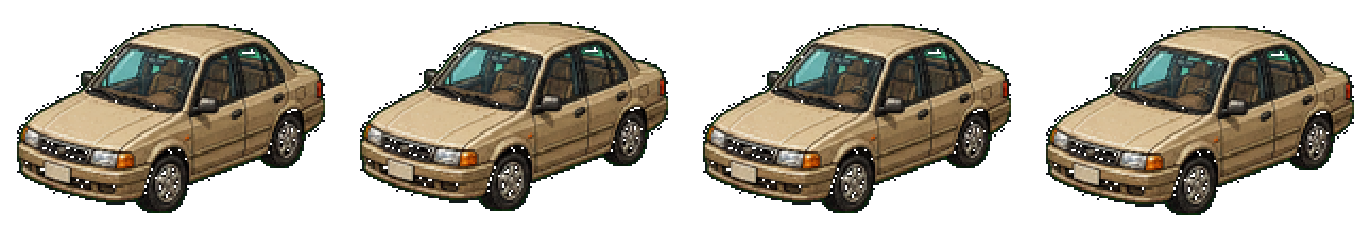
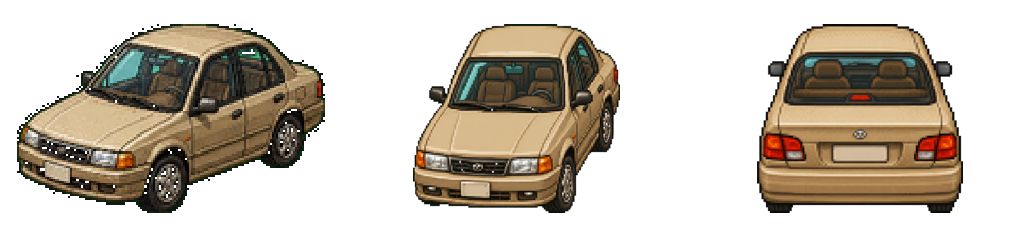
Ch.5 Minimus: directional vehicle fleet, mr_click NPC, full-Gulliver scale, décor + fixes
- mr_click: bespoke 46-frame photographer NPC (drops the curator stand-in), wired + verified
- Vehicles: all 19 road vehicles -> directional [side,front,back] sheets so traffic swaps
  by travel direction instead of rotating the side view (kills the vertical-lane skew);
  new tools compose-vehicle-directional.cjs + split-chroma-2up.cjs; DIRECTIONAL_VEHICLE_KEYS
- dog_sized_berry/bridge_berry -> authored mini_giant_berry_blocker (visuals:audit 93/93)
- Decor props: crown crest + banners (Ducal Crown), teacup + thimble (Minimus Major);
  teacup/thimble keyed transparent (tools/key-tile-bg.cjs) -- crown/banner re-author pending
- Full-Gulliver scale: MINIMUS_NATIVE_SCALE=0.5 on Minimus NPCs + non-facade props (the party
  is never scaled) so the colossi visibly tower over the tabletop duchy
- Pippa: reconciled the tiny-native / full-size-hero scale via the Royal Thimble (join dialogue)
- Housekeeping: removed 4 redundant dungeons/the_hedgerow/*_64.png originals
- All gates green: build, test 1237, enemies:frames 94/94, visuals:audit 93/93

diff --git a/src/scenes/OverworldScene.ts b/src/scenes/OverworldScene.ts
@@ -128,7 +128,7 @@ import { VEHICLE_SPECS } from '../spritegen/vehicles';
 import { makeVitalsBar, type VitalsBar } from '../ui/vitals';
 import { tileIndexByName, PATH_BASE, PATH_VARIANTS, RUG_BASE } from '../spritegen/tiles';
 import { LANDMARK_FACADE_SPRITES } from '../spritegen/buildings';
-import { AUTHORED_VEHICLE_ART_KEYS, AUTHORED_WORLD_PROP_DISPLAY_SIZE, worldSpriteScale } from '../spritegen/authored';
+import { AUTHORED_VEHICLE_ART_KEYS, AUTHORED_WORLD_PROP_DISPLAY_SIZE, DIRECTIONAL_VEHICLE_KEYS, worldSpriteScale } from '../spritegen/authored';
 import { TILE_SOLID, standFrame, facingFromVec, facing8, FACING_VEC, type Facing } from '../spritegen';
 import {
   instantWinGroup,
@@ -265,6 +265,10 @@ const MINIMUS_TILE_SKIN: Readonly<Record<string, string>> = {
   road: 'minimus_cobble', // Minimus Major's streets (`R`) → cobblestone
   road_dash: 'minimus_cobble', // the centreline (`D`) — a duchy ribbon needs no lane dash
 };
+/** §A11 full-Gulliver: the Minimus NATIVES (citizens, props, facades) render at this scale on
+ *  the Ch.5 maps so the colossi party visibly TOWERS over the tabletop duchy — the same idea as
+ *  MINIMUS_TRAFFIC_SCALE for the dainty cars. The PARTY (player + followers) is NEVER scaled. */
+const MINIMUS_NATIVE_SCALE = 0.5;
 /** dog roamers author into a 16² frame (half a human's 24×32); render them a
  *  touch larger so a beagle reads as a real dog beside the cast, not a speck. */
 const DOG_DISPLAY_SCALE = 1.5;
@@ -696,17 +700,31 @@ export class OverworldScene extends Phaser.Scene {
       const img = this.add.image(p.x * TILE_PX, p.y * TILE_PX, sprite).setOrigin(0, 0);
       if (AUTHORED_VEHICLE_PROP_KEYS.has(sprite)) img.setFrame(0);
       const displaySize = AUTHORED_WORLD_PROP_DISPLAY_SIZE[sprite as AuthoredWorldPropKey];
+      // §A11 full-Gulliver: shrink Minimus-NATIVE props so the colossi tower over the duchy's tiny
+      // objects — but NOT facades (their ADR-051 collision/door is texture-coupled) and NOT cars
+      // (already dainty via MINIMUS_TRAFFIC_SCALE).
+      const isFacadeSprite = sprite.startsWith('bldg_') || LANDMARK_FACADE_SPRITES.has(sprite);
+      const nativeProp =
+        MINIMUS_SKIN_MAPS.has(this.mapDef.id) && !isFacadeSprite && !AUTHORED_VEHICLE_PROP_KEYS.has(sprite);
+      const nps = nativeProp ? MINIMUS_NATIVE_SCALE : 1;
       // Sized props carry NATIVE map dims → scale at read. Everything else goes
       // through THE WORLD RESIZE RULE (worldSpriteScale): facades land at their
       // footprint and legacy ×1 art is lifted to runtime res, so homes/props are
       // no longer ~ART_SCALE× too small on the 1600×900 framebuffer.
       if (displaySize) {
-        img.setDisplaySize(s(displaySize.w), s(displaySize.h));
+        img.setDisplaySize(s(displaySize.w) * nps, s(displaySize.h) * nps);
       } else {
-        const sc = worldSpriteScale(sprite, img.width, img.height);
+        let sc = worldSpriteScale(sprite, img.width, img.height);
+        if (nativeProp) sc *= MINIMUS_NATIVE_SCALE;
         if (sc !== 1) img.setScale(sc);
       }
-      img.setDepth(p.y * TILE_PX + img.displayHeight);
+      // origin is top-left, so a shrunk native prop is re-planted by its FOOT + x-centre
+      if (nativeProp) {
+        const sw = img.displayWidth, sh = img.displayHeight;
+        img.x = p.x * TILE_PX + (sw / MINIMUS_NATIVE_SCALE - sw) / 2;
+        img.y = p.y * TILE_PX + (sh / MINIMUS_NATIVE_SCALE - sh);
+      }
+      img.setDepth(img.y + img.displayHeight);
       if (sprite.startsWith('bldg_') || LANDMARK_FACADE_SPRITES.has(sprite)) {
         // ADR-051 — A FACADE COLLIDES AS ITS REAL DRAWN FOOTPRINT. The map data
         // places a facade at a story count `u`; the forge/grown grammar often
@@ -926,6 +944,8 @@ export class OverworldScene extends Phaser.Scene {
       // a beagle reads as a distant speck beside the cast. Lift it so it sits at
       // a believable dog scale next to the kids (origin is feet, so it stays planted).
       if (def.dog) spr.setScale(DOG_DISPLAY_SCALE);
+      // §A11 full-Gulliver — Minimus NATIVES shrink so the colossi party towers (heroes unscaled)
+      else if (MINIMUS_SKIN_MAPS.has(this.mapDef.id)) spr.setScale(MINIMUS_NATIVE_SCALE);
       spr.setDepth(y);
       // ADR-124 — FREE-ROAMING TOWNSFOLK: NPCs wander a small radius by default;
       // only clerks (a `shop`), explicitly pinned NPCs (wander:false / stationary),
@@ -1346,21 +1366,22 @@ export class OverworldScene extends Phaser.Scene {
       // side art by direction: dir 0=E, 1=S, 2=W, 3=N.
       const vertical = v.dir === 1 || v.dir === 3;
       const dim = this.trafficDims.get(v.type) ?? { w: s(32), h: s(18) };
-      const animFrame = Math.floor((this.time.now / 130 + v.id) % 4);
-      // the sheet anim is just a frame swap — the texture KEY never changes
-      // (setFrame skips the per-call texture-manager lookup setTexture does), and
-      // the on-screen size is fixed per vehicle and set once at spawn. Re-setting
-      // the texture + display size for every car every frame was pure waste on
-      // settlement maps (the traffic-heavy "sluggish in town" spots).
-      spr.setFrame(animFrame);
-      // The authored vehicle art faces screen-LEFT (front/headlights on the left, a 3/4
-      // oblique view). Orient FROM that: mirror for East, and rotate the front toward
-      // travel for the vertical lanes. (Previously this assumed right-facing art, so every
-      // car drove BACKWARDS — flip on West + the inverted N/S angles. A dedicated top-down
-      // or 4-way directional vehicle sheet would render the vertical lanes perfectly; this
-      // at least points the car the way it's going with the side art we have.)
-      spr.setAngle(v.dir === 1 ? -90 : v.dir === 3 ? 90 : 0); // S → front down, N → front up
-      spr.setFlipX(v.dir === 0); // E → mirror the left-facing art to face right
+      // setFrame is cheap (the texture KEY never changes, so it skips the per-call
+      // texture-manager lookup setTexture does); the on-screen size is fixed per vehicle
+      // at spawn. ADR-097: a DIRECTIONAL sheet is 3 frames [side, front, back] and traffic
+      // SWAPS the frame by travel direction (no skew). A legacy sheet is 4 motion frames of
+      // the side view, oriented by mirror (East) + rotate (the vertical lanes — which skews
+      // a 3/4 sprite; the directional sheet is the real fix).
+      if (DIRECTIONAL_VEHICLE_KEYS.has(v.type)) {
+        // dir 0=E, 1=S, 2=W, 3=N → side(0) for E/W, front(1) driving down, back(2) driving up
+        spr.setFrame(v.dir === 1 ? 1 : v.dir === 3 ? 2 : 0);
+        spr.setAngle(0);
+        spr.setFlipX(v.dir === 0); // E mirrors the front-left side art to front-right
+      } else {
+        spr.setFrame(Math.floor((this.time.now / 130 + v.id) % 4));
+        spr.setAngle(v.dir === 1 ? -90 : v.dir === 3 ? 90 : 0); // S → front down, N → front up
+        spr.setFlipX(v.dir === 0); // E → mirror the left-facing art to face right
+      }
       // SOLID body rect (px) covering the WHOLE car — ends and sides — sized to
       // the sprite and oriented to travel, inset 4px so brushing past isn't sticky
       // dim is RUNTIME px; dim*S matches the on-screen sprite. The 4px brush-past

diff --git a/src/spritegen/authored.ts b/src/spritegen/authored.ts
@@ -298,6 +298,7 @@ export const NPC_CHARACTER_ART = [
   { id: 'teacup_innkeeper', key: 'authored_teacup_innkeeper_8dir', url: new URL('../../assets/art/characters/teacup_innkeeper_anim_46_4x.png', import.meta.url).href },
   { id: 'tiny_postmaster', key: 'authored_tiny_postmaster_8dir', url: new URL('../../assets/art/characters/tiny_postmaster_anim_46_4x.png', import.meta.url).href },
   { id: 'matchbox_herald', key: 'authored_matchbox_herald_8dir', url: new URL('../../assets/art/characters/matchbox_herald_anim_46_4x.png', import.meta.url).href },
+  { id: 'mr_click', key: 'authored_mr_click_8dir', url: new URL('../../assets/art/characters/mr_click_anim_46_4x.png', import.meta.url).href },
 ] as const;
 
 export const AUTHORED_NPC_CHARACTER_IDS = NPC_CHARACTER_ART.map((art) => art.id);
@@ -388,6 +389,8 @@ const WORLD_PROP_KEYS = [
   'prop_giant_hair', 'prop_amber_wax', 'prop_resonance_stones',
   // Ch.5 Minimus — the Hedgerow maze + the Ducal Crown dressing (PKG-12 §2)
   'hedgerow_leaf_wall', 'hedgerow_thorn_arch', 'ducal_crown_gate', 'matchbox_podium',
+  // Ch.5 Minimus — decorative Grand-Duchy feature props (sliced from Minimus_tiles_16.png cells)
+  'minimus_crown', 'minimus_banner', 'minimus_teacup', 'minimus_thimble',
 ] as const;
 
 const BASE_FACADE_KEYS = [
@@ -471,6 +474,19 @@ export const AUTHORED_VEHICLE_ART = [
 ] as const;
 
 export const AUTHORED_VEHICLE_ART_KEYS = AUTHORED_VEHICLE_ART;
+
+/** ADR-097 DIRECTIONAL vehicles: their authored sheet is 3 frames [side, front, back]
+ *  (NOT the legacy 4 motion frames of the side view). Traffic SWAPS the frame by travel
+ *  direction instead of rotating the 3/4 side art, so vertical lanes read correctly (no
+ *  skew). Add a key here once its front+back views are authored + composed
+ *  (tools/compose-vehicle-directional.cjs). */
+export const DIRECTIONAL_VEHICLE_KEYS = new Set<string>([
+  // the road-traffic four-wheelers, each authored with front + back oblique views
+  'commuter', 'work_van', 'city_ev', 'trail_boss', 'big_block', 'the_nikolai', 'drop_top',
+  'grand_tourer', 'the_stretch', 'comet_gt', 'school_bus', 'bus', 'vehicle_clunker', 'savanna_caravan_truck',
+  // the two-wheelers — head-on front + rear views
+  'kids_bmx', 'ten_speed', 'old_reliable', 'chrome_hog', 'the_quick_one',
+]);
 
 const AUTHORED_VEHICLE_SOURCES = AUTHORED_VEHICLE_ART.map((key) => ({
   key,
@@ -605,6 +621,11 @@ export const AUTHORED_WORLD_PROP_DISPLAY_SIZE = {
   hedgerow_thorn_arch: { w: 30, h: 30 },
   ducal_crown_gate: { w: 32, h: 32 },
   matchbox_podium: { w: 16, h: 16 },
+  // Ch.5 Minimus decorative feature props (64px square cells — kept SQUARE so setDisplaySize never distorts)
+  minimus_crown: { w: 32, h: 32 },
+  minimus_banner: { w: 22, h: 22 },
+  minimus_teacup: { w: 18, h: 18 },
+  minimus_thimble: { w: 16, h: 16 },
 } as const satisfies Record<string, { w: number; h: number }>;
 
 /** Footprint width in TILES for the generated catalog + colossi, mirrored from
@@ -1040,8 +1061,10 @@ const ENEMY_MINI_ART = [
   { key: 'mini_halberd_column', url: new URL('../../assets/art/enemies/mini_halberd_column.png', import.meta.url).href },
   { key: 'mini_bell_ringer_acolyte', url: new URL('../../assets/art/enemies/mini_bell_ringer_acolyte.png', import.meta.url).href },
   { key: 'mini_grand_parade', url: new URL('../../assets/art/enemies/mini_grand_parade.png', import.meta.url).href },
-  // Ch.4 straggler — the last actually-roaming enemy on a procedural mini (derived from its battler)
+  // Ch.4 straggler — a roaming enemy lifted off its procedural mini (derived from its battler)
   { key: 'mini_thunder_snail', url: new URL('../../assets/art/enemies/mini_thunder_snail.png', import.meta.url).href },
+  // Ch.1 stragglers — dog_sized_berry + bridge_berry borrow battle_giant_berry_blocker; one shared derived mini
+  { key: 'mini_giant_berry_blocker', url: new URL('../../assets/art/enemies/mini_giant_berry_blocker.png', import.meta.url).href },
 ];
 
 export const AUTHORED_ENEMY_BATTLE_ART_KEYS = ENEMY_BATTLE_ART.map((art) => art.key);
@@ -1469,8 +1492,10 @@ export function applyAuthoredVehicleArt(scene: Phaser.Scene): void {
   AUTHORED_VEHICLE_SOURCES.forEach((art) => {
     const img = sourceImage(scene, art.authoredKey);
     if (!img) return;
-    const frameW = Math.max(1, Math.round(img.width / 4));
-    replaceTextureSheet(scene, art.key, makeImageCanvas(img), frameW, img.height, 4, 4);
+    // directional sheets are 3 frames [side, front, back]; legacy are 4 motion frames
+    const frames = DIRECTIONAL_VEHICLE_KEYS.has(art.key) ? 3 : 4;
+    const frameW = Math.max(1, Math.round(img.width / frames));
+    replaceTextureSheet(scene, art.key, makeImageCanvas(img), frameW, img.height, frames, frames);
   });
 }
 

diff --git a/src/data/maps_ch5.ts b/src/data/maps_ch5.ts
@@ -96,6 +96,9 @@ function buildMinimusMajor(): MapDef {
     { sprite: 'prop_trail_marker', x: 20, y: 22 }, // the court approach marker
     // PIPPA's matchbox podium — she briefs the colossi from it (mistaken for a lapel pin) — PKG-12 §2
     { sprite: 'matchbox_podium', x: 10, y: 23 },
+    // §E — tiny-duchy curios near Pippa's court (decorative feature tiles as non-solid props)
+    { sprite: 'minimus_teacup', x: 13, y: 23 },
+    { sprite: 'minimus_thimble', x: 7, y: 23 },
   ];
 
   return {
@@ -189,7 +192,7 @@ function buildProcessionWay(): MapDef {
     ],
     npcs: [
       // MR. CLICK — the macro-lens photographer (the regional "Say Cheese, Minister")
-      { id: 'pw_click', sprite: 'curator', x: 22, y: 11, facing: 'up', dialogue: 'npc_pw_click', stationary: true, idle: true, emote: 'happy' },
+      { id: 'pw_click', sprite: 'mr_click', x: 22, y: 11, facing: 'up', dialogue: 'npc_pw_click', stationary: true, idle: true, emote: 'happy' },
       // a Whistle Guard on point duty (one obsession: keep the colossi ON the Way)
       { id: 'pw_guard', sprite: 'whistle_guard_npc', x: 15, y: 9, facing: 'down', dialogue: 'npc_pw_guard', wander: true },
     ],
@@ -316,6 +319,11 @@ function buildDucalCrown(): MapDef {
       { sprite: 'prop_trail_marker', x: 14, y: 11 },
       // the gilt boss-trigger arch — the ceremonial threshold onto the dais (non-solid) — PKG-12 §2
       { sprite: 'ducal_crown_gate', x: 9, y: 11 },
+      // §E decorative Grand-Duchy feature tiles, placed as NON-solid dressing: a royal crown
+      // crest on the dais axis (below the Crown jewel) + ceremonial banners flanking the throne
+      { sprite: 'minimus_crown', x: 9, y: 7 },
+      { sprite: 'minimus_banner', x: 6, y: 1 },
+      { sprite: 'minimus_banner', x: 12, y: 1 },
     ],
     npcs: [],
     signs: [{ x: 9, y: 12, dialogue: 'sign_ducal_crown' }],

diff --git a/src/data/dialogue.ts b/src/data/dialogue.ts
@@ -2772,9 +2772,9 @@ export const DIALOGUE: Record<string, DialogueScript> = {
   // — THE TWO JOINS: Pippa appointed Foreign Minister; Dorin revealed —
   pippa_join: [
     "@(The Grand Duchess pitches her voice to fill the square, which at her scale means merely that she is audible.) For service to the Crown — and for being LARGE about it in all the correct ways — Minimus appoints PIPPA QUILL its Foreign Minister of Being Taken Seriously.",
-    "@Go with the colossi, Minister. See that the big world takes small things seriously, for once. Here — the ROYAL THIMBLE. It will keep your scale steady out there, where everything is the wrong size and proud of it.",
-    "@(Pippa climbs onto {rex}'s shoulder, thimble in hand, and does not look back, because a minister does not look back.) ...Right. Where are we colossally going next?",
-    '* {pippa} joined the party — and brought the ROYAL THIMBLE.',
+    "@Go with the colossi, Minister. See that the big world takes small things seriously, for once. Here — the ROYAL THIMBLE. Press it close and it brings you UP to their scale, and holds you there steady, out where everything is the wrong size and proud of it.",
+    "@(Pippa presses the ROYAL THIMBLE to her chest and RISES — lapel-pin to colossus, smooth as a drawn breath — until she stands shoulder to shoulder with the party. She does not wobble, because a minister does not wobble.) ...Right. Where are we colossally going next?",
+    '* {pippa} joined the party — the ROYAL THIMBLE holds her at travel scale.',
   ],
   dorin_join: [
     '(There is a kid sitting on the duchy wall, swinging his feet over a drop that is, to him, nothing at all. Travel-worn gi. Prayer beads. A half-eaten something. He has been a step ahead of you since the Sleeper\'s hand in Norway, and he has never once offered his name.)',

diff --git a/src/data/enemies.ts b/src/data/enemies.ts
@@ -1293,7 +1293,7 @@ export const ENEMIES: Record<string, EnemyDef> = Object.fromEntries(
       ],
       deathLine: 'The Dog-Sized Berry burst at last. It was, after everything, just a berry. A very large, very rude berry.',
       drops: [{ item: 'dog_sized_berry', chance: 0.5 }],
-      sprite: 'battle_giant_berry_blocker', mini: 'mini_hill_slug',
+      sprite: 'battle_giant_berry_blocker', mini: 'mini_giant_berry_blocker',
       bg: [RAMP.MAGENTA, RAMP.RED],
     }),
     E({
@@ -1568,7 +1568,7 @@ export const ENEMIES: Record<string, EnemyDef> = Object.fromEntries(
       ],
       deathLine: 'The Bridge Berry rolled aside at last, leaving one long red smear and a clear path over the gorge.',
       drops: [{ item: 'dog_sized_berry', chance: 0.4 }],
-      sprite: 'battle_giant_berry_blocker', mini: 'mini_hill_slug',
+      sprite: 'battle_giant_berry_blocker', mini: 'mini_giant_berry_blocker',
       bg: [RAMP.MAGENTA, RAMP.RED],
     }),
 

diff --git a/src/spritegen/authored_assets.test.ts b/src/spritegen/authored_assets.test.ts
@@ -113,7 +113,7 @@ describe('authored hero asset wiring', () => {
 describe('authored NPC asset wiring', () => {
   it('matches the PKG-09 character list and loads 96x128-frame sheets', () => {
     const npcIds = listedNpcIds();
-    expect(npcIds).toHaveLength(69);
+    expect(npcIds).toHaveLength(70);
     expect(AUTHORED_NPC_CHARACTER_IDS).toEqual(npcIds);
 
     const artById = new Map<string, (typeof NPC_CHARACTER_ART)[number]>(NPC_CHARACTER_ART.map((art) => [art.id, art]));

diff --git a/docs/asset-lists/visual_identity.md b/docs/asset-lists/visual_identity.md
@@ -3,8 +3,8 @@
 Authored means the runtime key resolves through `src/spritegen/authored.ts` and a committed `assets/art/...` file. Legacy means a procedural mini, generated draw function, borrowed generic character sheet, or orphaned authored file remains in the identity path.
 
 - Enemies: 93
-- Fully authored identities: 92
-- Legacy identities: 1
+- Fully authored identities: 93
+- Legacy identities: 0
 - Orphan authored battle images: 0
 - Orphan authored overworld sheets: 0
 - Authored battle PNGs on disk but not registered for current runtime: 173
@@ -66,7 +66,7 @@ Authored means the runtime key resolves through `src/spritegen/authored.ts` and 
 | colossal_gnat | bootstep_moor | battle_colossal_gnat | mini:mini_colossal_gnat | authored | - |
 | knitting_needles | - | battle_knitting_needles | mini:mini_knitting_needles | authored | - |
 | thunder_snail | bootstep_moor | battle_thunder_snail | mini:mini_thunder_snail | authored | - |
-| dog_sized_berry | bootstep_moor | battle_giant_berry_blocker | mini:mini_hill_slug | legacy | uses PROCEDURAL mini 'mini_hill_slug' instead of authored overworld art |
+| dog_sized_berry | bootstep_moor | battle_giant_berry_blocker | mini:mini_giant_berry_blocker | authored | - |
 | hushed_gull | kvisthavn | battle_fjord_gull_bully | mini:mini_pigeon_gang | authored | - |
 | junior_jotun | bootstep_moor | battle_junior_jotun | mini:mini_junior_jotun | authored | - |
 | moor_midge_cloud | bootstep_moor | battle_moor_midge_cloud | mini:mini_moor_midge_cloud | authored | - |
@@ -82,7 +82,7 @@ Authored means the runtime key resolves through `src/spritegen/authored.ts` and 
 | aurora_moth | - | battle_aurora_moth | mini:mini_aurora_moth | authored | - |
 | hushed_skua | - | battle_hushed_skua | mini:mini_hushed_skua | authored | - |
 | frost_jotun_elder | - | battle_frost_jotun_elder | mini:mini_frost_jotun_elder | authored | - |
-| bridge_berry | - | battle_giant_berry_blocker | mini:mini_hill_slug | authored | - |
+| bridge_berry | - | battle_giant_berry_blocker | mini:mini_giant_berry_blocker | authored | - |
 | the_whisperwig | - | battle_the_whisperwig | mini:mini_souvenir | authored | - |
 | tin_parade | procession_way | battle_tin_parade | mini:mini_tin_parade | authored | - |
 | duelist_pip | procession_way | battle_duelist_pip | mini:mini_duelist_pip | authored | - |
@@ -113,7 +113,6 @@ Each row still resolves to a PROCEDURAL mini (the old pixel style). Cheapest lif
 
 | enemy | display name | map use | battle reference | current fallback | output PNG | runtime key |
 |---|---|---|---|---|---|---|
-| dog_sized_berry | Dog-Sized Berry | bootstep_moor | assets/art/enemies/battle_giant_berry_blocker.png | mini:mini_hill_slug | assets/art/enemies/overworld/dog_sized_berry_8dir.png | ow_enemy_dog_sized_berry |
 
 ## Orphans
 

diff --git a/docs/chapters/ch5/checklist.md b/docs/chapters/ch5/checklist.md
@@ -25,9 +25,14 @@
 > AUTHORED hi-res (derived from the battlers, `tools/derive-ch5-minis.ts`) — no more procedural pixel
 > roamers; procedural overworld minis dormanted (CLAUDE.md policy + `visuals:audit` → 92/93 authored).
 > Traffic cars fixed (faced-left art was oriented backward) + Minimus runs dainty matchbox-scale cars.
-> All gates green (1237 tests). Remaining optional polish: an `mr_click` photographer sheet, the strip's
-> decorative cells (teacup/columns/banner/crown/arches — need a grid-char pass), and the lone borrowed-
-> battler roamer `dog_sized_berry` (Ch.1, needs a dedicated battler before it can derive a mini).
+> All gates green (1237 tests). **CONT. 2026-06-26 (s2):** the `mr_click` photographer sheet is DONE
+> (`pw_click` repointed off `curator`; pin 69→70) + `dog_sized_berry`/`bridge_berry` lifted to the
+> authored `mini_giant_berry_blocker` (`visuals:audit` 93/93, 0 legacy) + the 4 redundant `_64` props
+> removed. **CONT (vehicle fix):** the WHOLE road fleet (all 19 vehicles) is now DIRECTIONAL — authored
+> `[side, front, back]` sheets swapped by travel direction (no more vertical-lane skew); see
+> `DIRECTIONAL_VEHICLE_KEYS` in `authored.ts`. **DONE:** the decorative feature art (crown crest + banners
+> in the Ducal Crown, teacup + thimble curios in Minimus Major) placed as NON-solid prop overlays
+> (`minimus_{crown,banner,teacup,thimble}`) — the whole Ch.5 polish backlog (B/C/D/E/F) is now clear.
 
 ## Promote the draft tree
 
@@ -61,8 +66,8 @@
       sheets (`grand_duchess_millimetta`, `spool_engineer`, `royal_census_taker`,
       `whistle_guard_npc`, `teacup_innkeeper`, `tiny_postmaster`, `matchbox_herald`): masters
       synced to runtime, added to `NPC_CHARACTER_ART` + `characters_8dir.txt` (62→69 pin),
-      sprites repointed in `maps_ch5.ts`. (`pw_click` keeps the `curator` stand-in — no
-      photographer master authored.)
+      sprites repointed in `maps_ch5.ts`. (`pw_click` later got a dedicated authored `mr_click`
+      photographer sheet — done 2026-06-26, the 8th Minimus NPC; pin 69→70.)
 - [x] **Enemy battlers** — all **20** §A7 Minimus enemies authored (ChatGPT→PNG, magenta-key
       → `slice-chroma`), ×3 identical-footprint wear tiers (`enemies:frames` 94/94 hi-res, 0
       pixelated) onto their pre-wired `battle_<id>` keys. Masters in `assets/art/masters/generated/`.

diff --git a/docs/CH5_ART_PROMPTS.md b/docs/CH5_ART_PROMPTS.md
@@ -130,7 +130,7 @@ and wired onto their existing keys — then `npm run build` (the full `vite buil
 the live look/feel eyeball in the preview browser (the boss flow + the two joins).
 
 > **STATUS — LANDED 2026-06-25.** ✅ **NPCs:** 7 placed quest NPCs wired to dedicated
-> 46-frame sheets (`pw_click` keeps the `curator` stand-in). ✅ **Battlers:** all 20 §A7
+> 46-frame sheets (`pw_click` later got its own `mr_click` photographer sheet — done 2026-06-26, 8th NPC). ✅ **Battlers:** all 20 §A7
 > enemies authored ×3 wear (`enemies:frames` 94/94 hi-res). ✅ **Boss + Flat Bell** + ✅ **8
 > cutscene panels:** already authored + wired. ✅ **Backdrop:** `the_hedgerow` added to
 > `BATTLE_BACKGROUND_ART` + a `backdropArea` Ch.5 branch. ✅ **Build green** + ✅ **live-verified**
